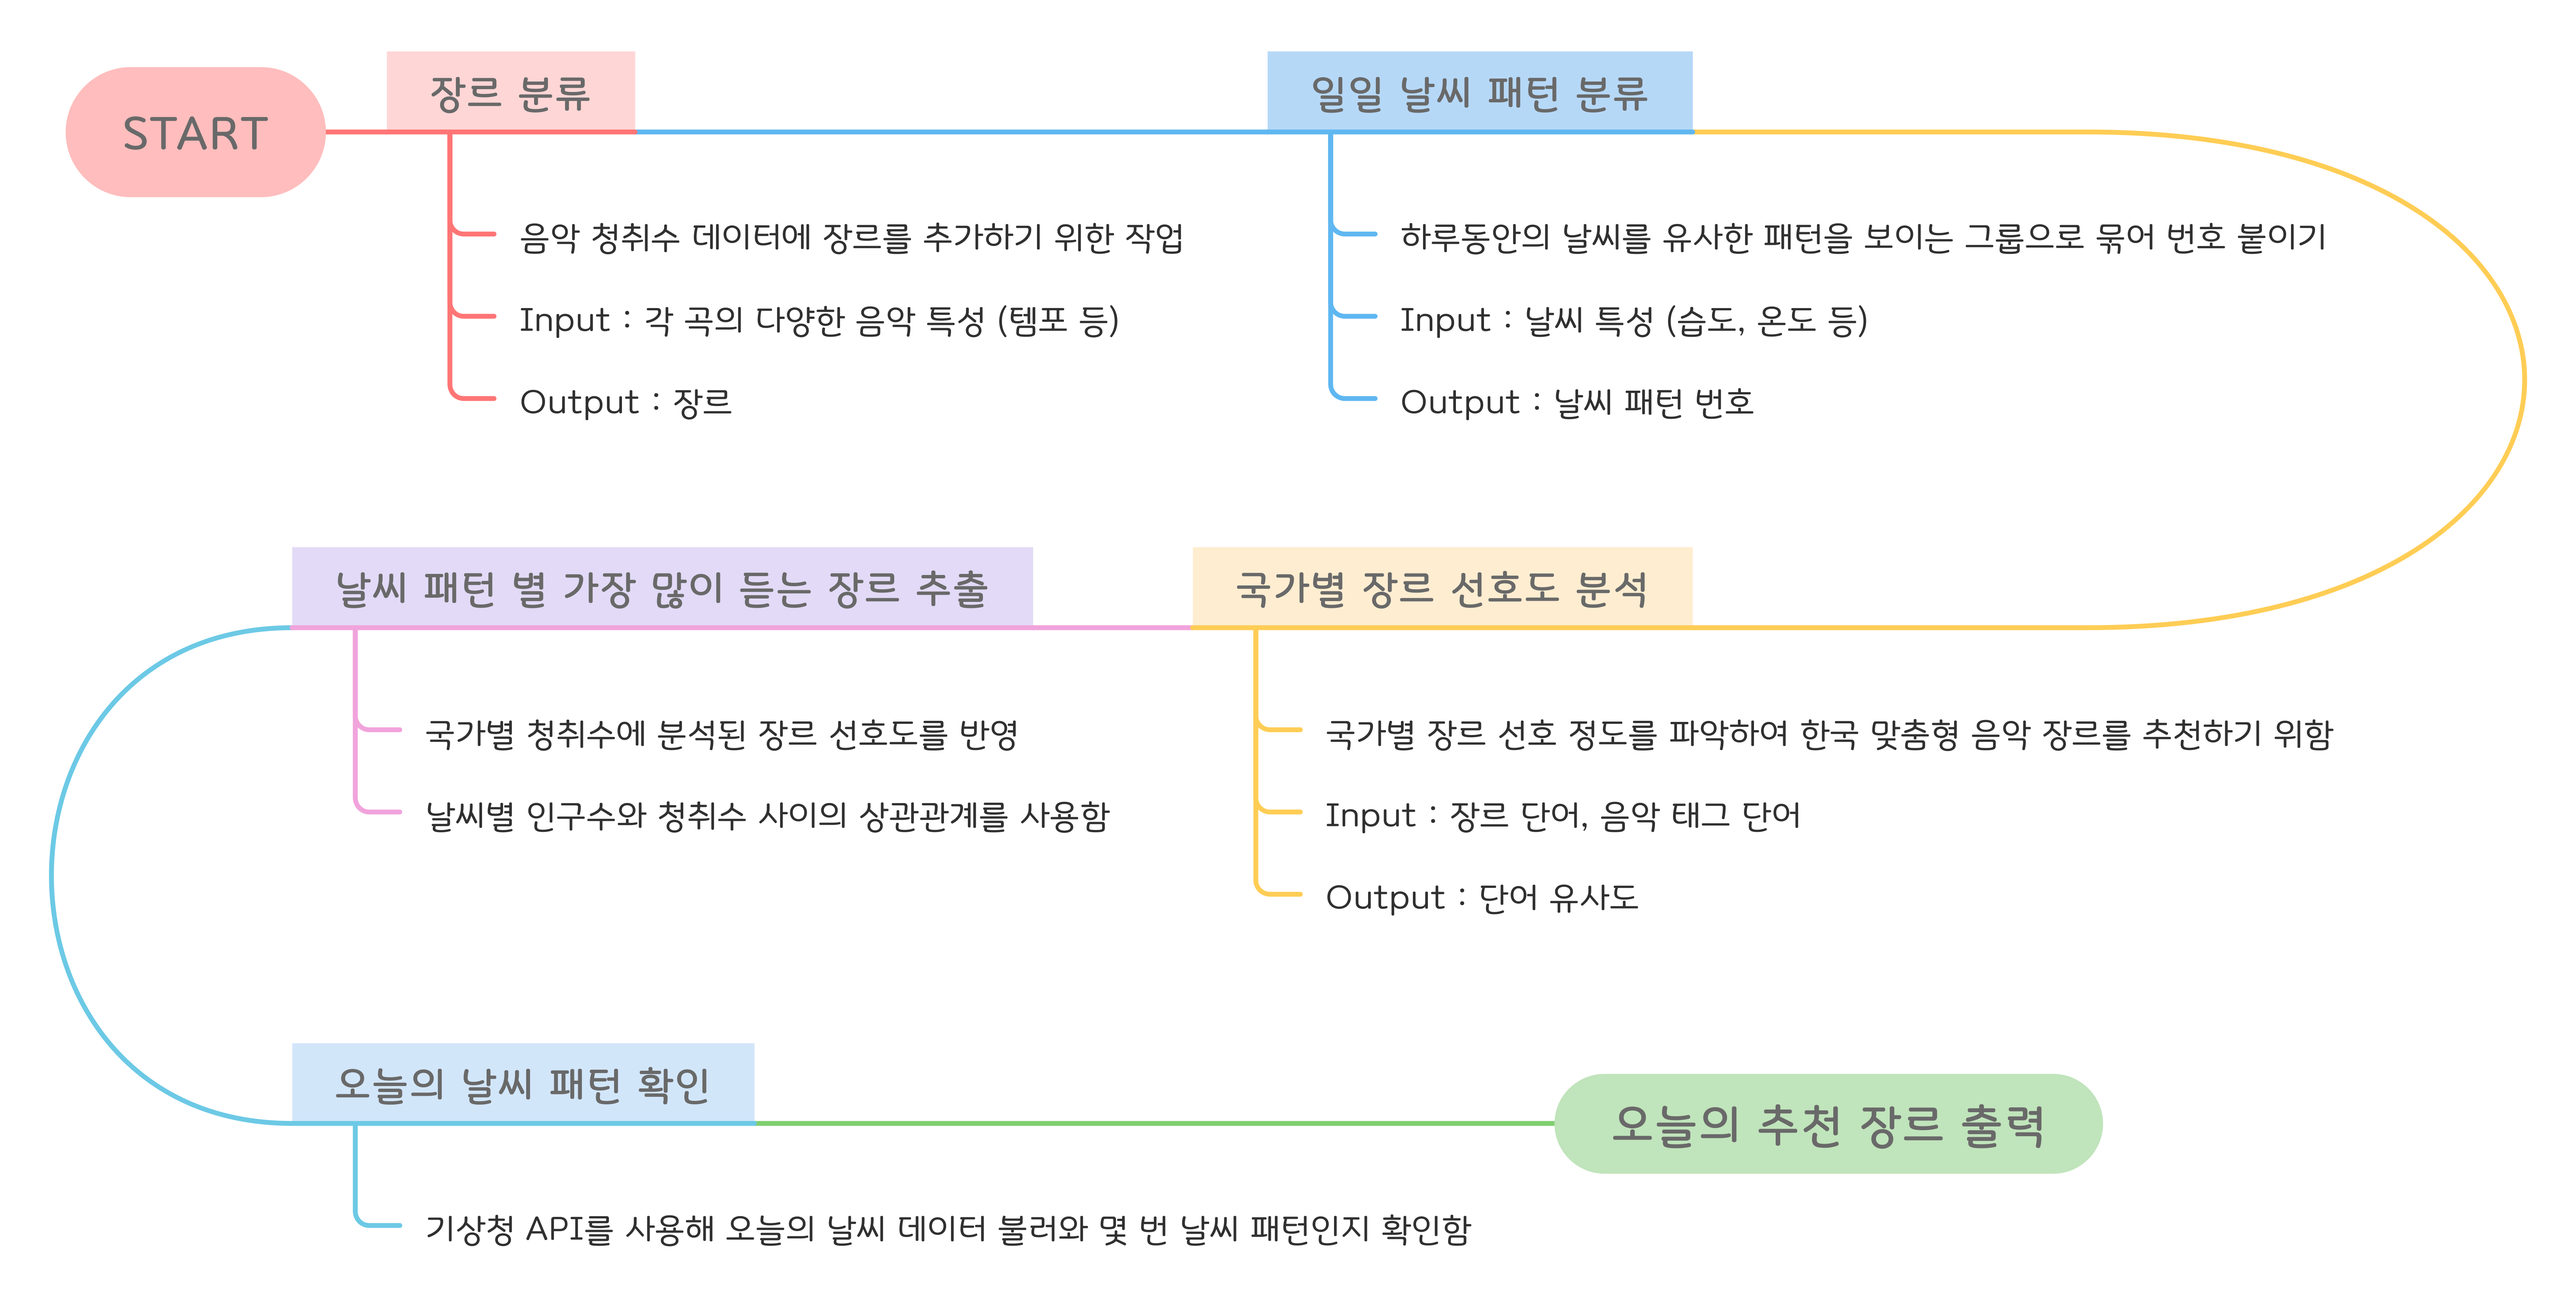
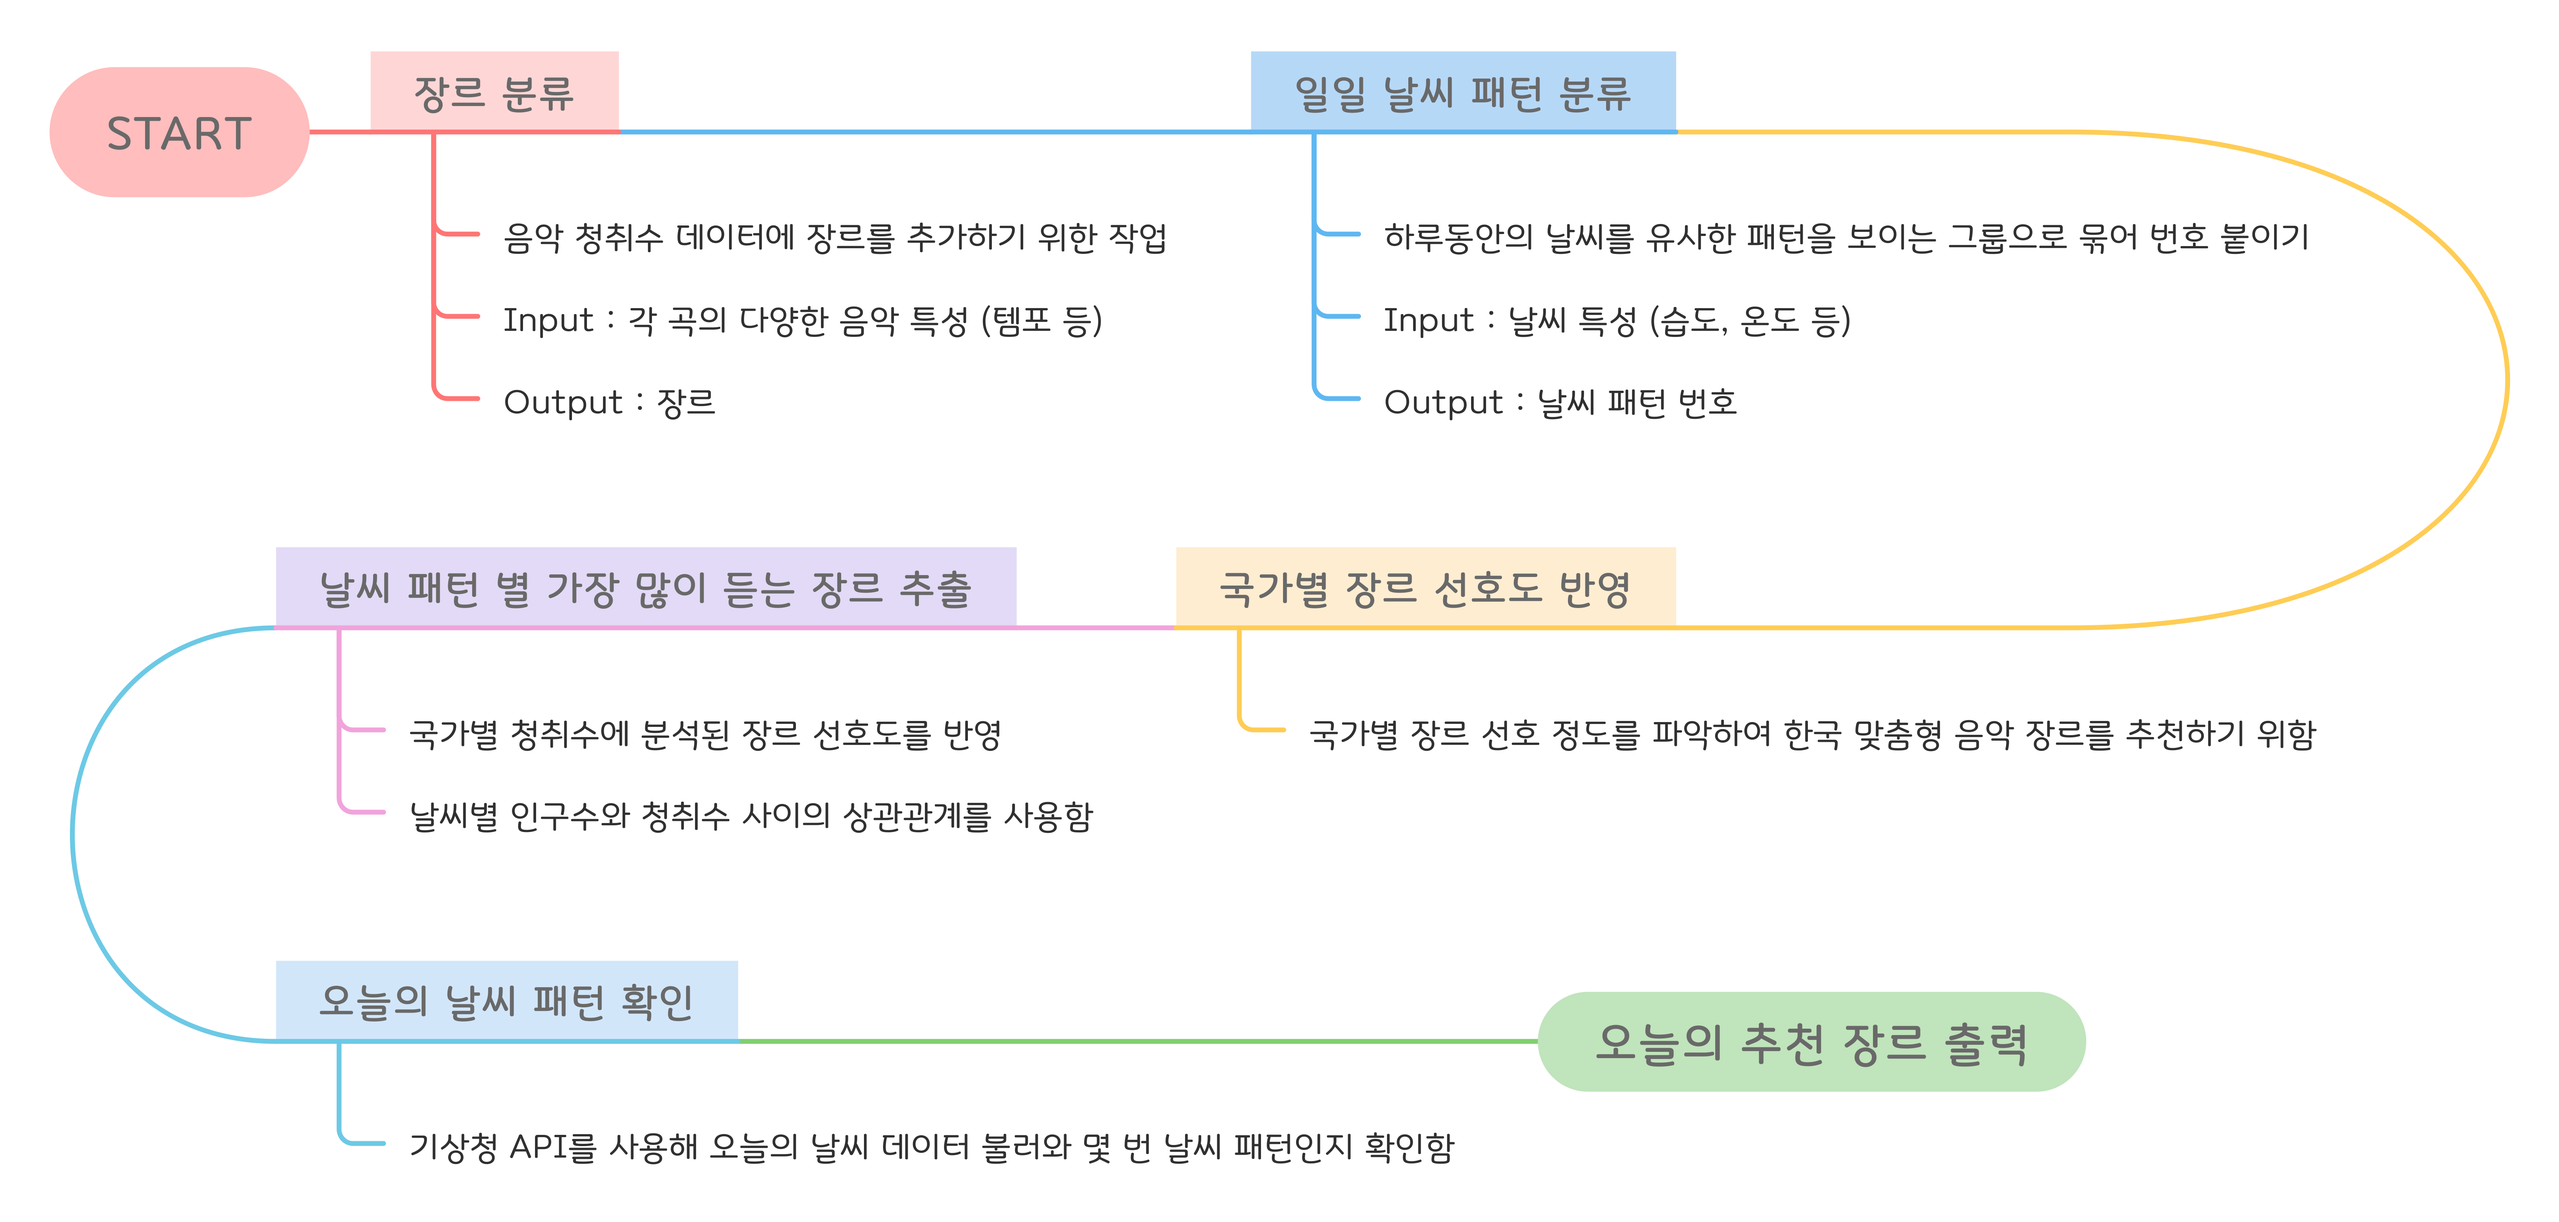
포폴 수정

diff --git a/_posts/2024-04-14-portfolio.md b/_posts/2024-04-14-portfolio.md
@@ -65,4 +65,10 @@ title: 포트폴리오
         </div>
     </td>
 </tr>
+<tr>
+    <td colspan="2" style="border-top: none;">
+        <div class="sub-title">국가별 장르 선호도</div>
+        <img style="display: block; margin: 2.5rem auto 1.5rem;" src="{{root_url}}/public/img/portfolio/국가별 장르 선호도 반영.png" />
+    </td>
+</tr>
 </table>
